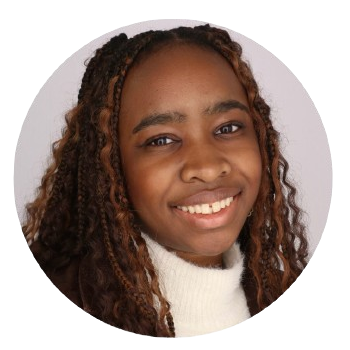
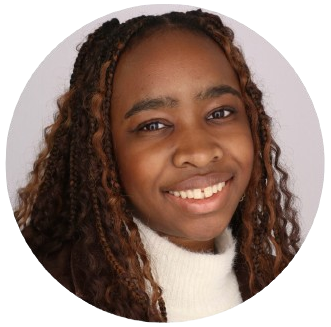
padding of pic again

diff --git a/index.html b/index.html
@@ -64,7 +64,7 @@
 <!--LEFT COLUMN!-->
     <div class="col-md-6 d-flex-column">
   <!--INSERT PICTURE OF URSELF!!-->
-    <img src="pics/perfshot.png" class="mt-1 mb-0" alt="A photo of Jewel">
+    <img src="pics/perfshot.png" class=" rounded mt-1 mb-1" alt="A photo of Jewel">
       <!--alt gives alt text of the picture using fluid makes it go to auto hight to scale across devices -->
     <p class="lead">
       I'm a reccent graduate from Binghamton University with a Bachelors in Computer Science.
